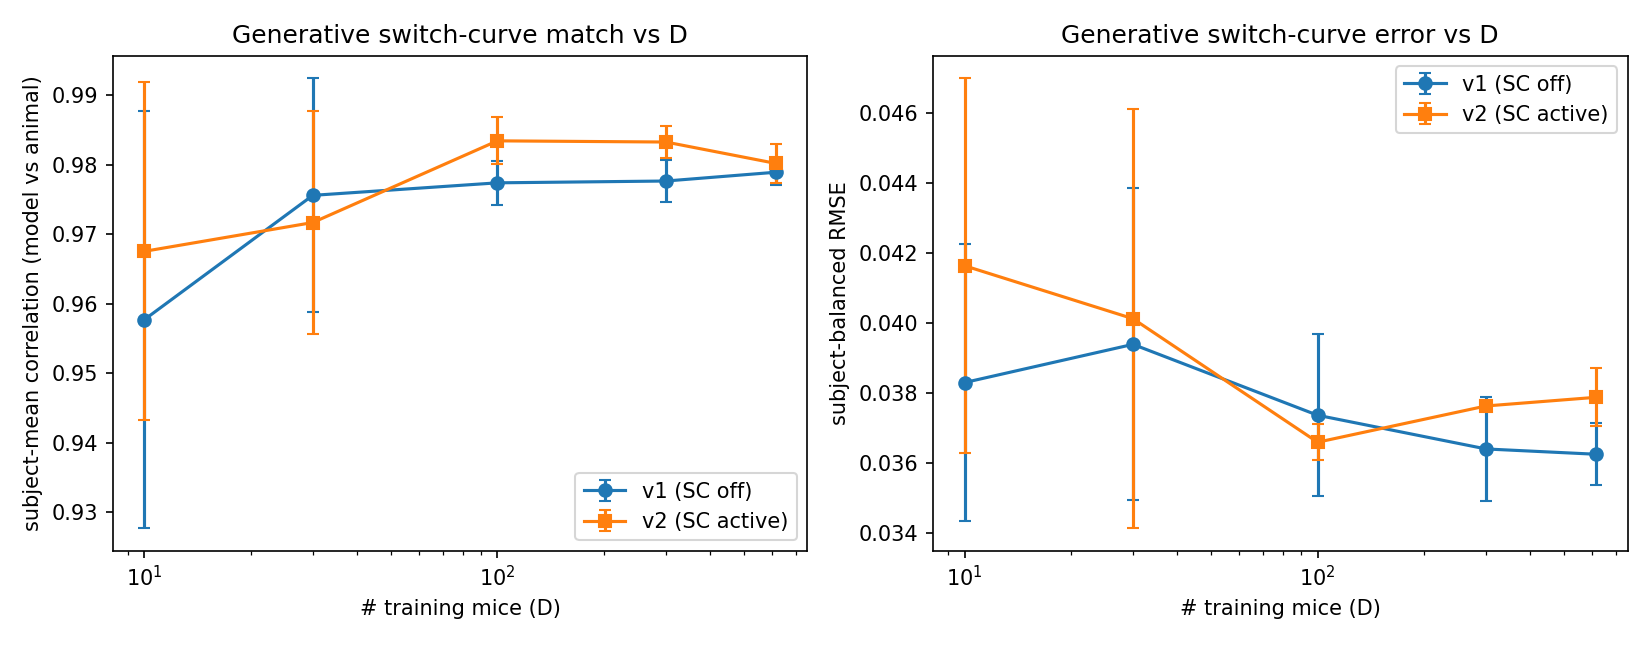
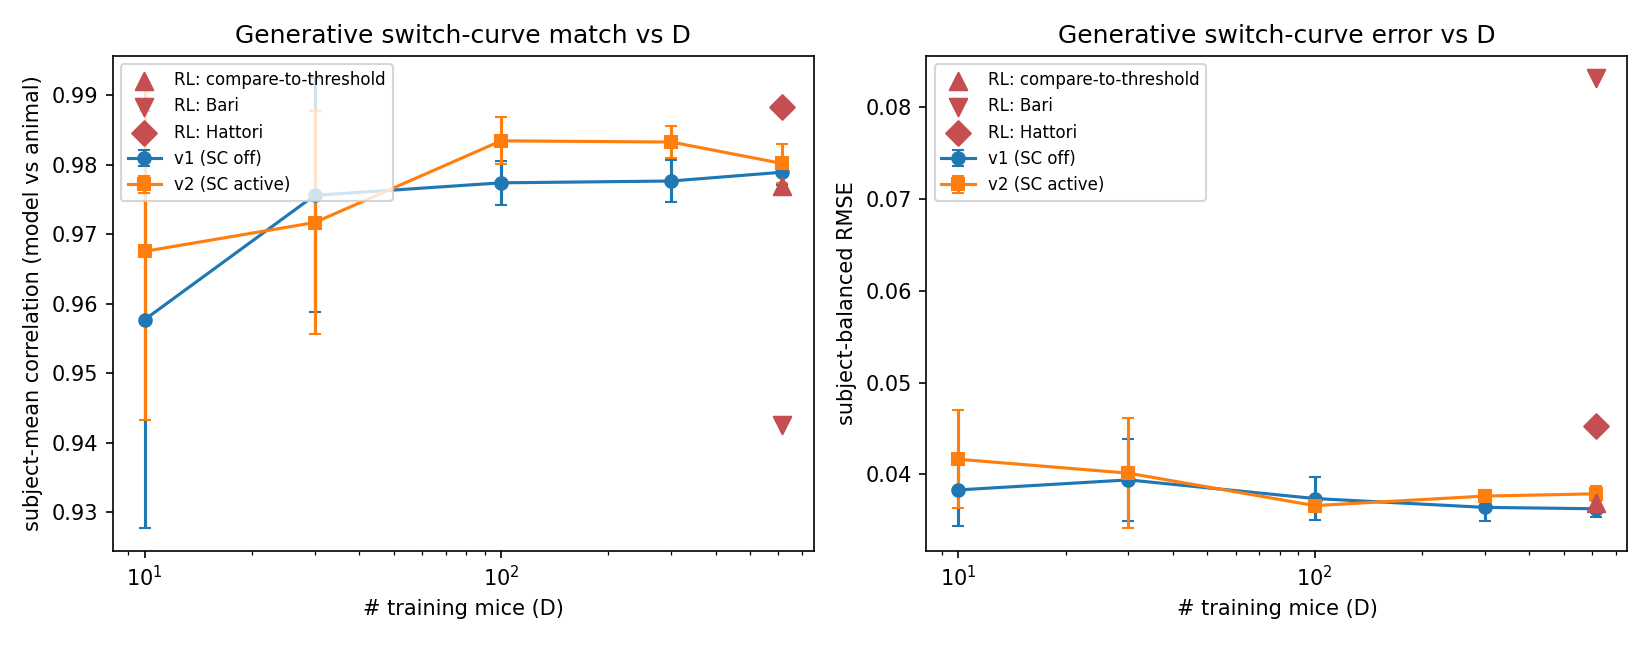
analysis(01): r9 -- add the RL generative baselines from study 05
Study 05's r4 crossed the same three per-mouse RL baselines (compare-to-
threshold, Bari, Hattori -- r1's fits) against the disRNN generatively. r9 is
the natural place for the GRU-vs-RL half of that comparison, since it already
runs the identical task-construction code path -- so add it here too rather
than let the RL rollout only ever be compared against one of the two models.

Reads study 05's committed rl_rollout_summaries/ (cross-study reference, same
direction r1/r4 already read study 01's generative_match.json the other way).
Single reference point per RL model at D=614 (per-subject fit over all 614
mice, not a D-sweep) on both figures, plus three new result tables (d)-(f)
mirroring this report's existing switch/abstract/detailed structure.

Same nuanced finding as r4: no RL model is uniformly more mouse-like than the
GRU, and the internal RL ranking flips across metrics -- Hattori edges out both
GRU variants on the switch curve (0.9884 vs 0.980) but trails on history
(0.965 vs 0.984); compare-to-threshold is competitive on switch (0.977) but is
the WORST model in every table on 3-trial-back history (0.931, both encodings
agree) -- below even the GRU's own D=10 point. Bari trails on every metric and
carries ~2x everyone else's switch RMSE despite mid-table correlation.

Flagged explicitly: this report's OWN GRU rollouts predate wrapper #60 (the
off-curriculum task-family fix), while the RL rollouts run after it -- an
[…]

diff --git a/studies/01-gru-scaling-law/analysis/generative_match.py b/studies/01-gru-scaling-law/analysis/generative_match.py
@@ -36,6 +36,16 @@ PROJECT = "AIND-disRNN/mice_data_scaling"
 PREFIXES = ("generative-v1@", "generative-v2@")
 DLAB = {0.016: 10, 0.049: 30, 0.163: 100, 0.489: 300, 1.0: 614}
 
+# RL baselines: rolled out generatively under study 05 (variants/generative-rl-baseline), same
+# task construction as this study's own GRU rollouts (build_curriculum_matched_task). Read
+# cross-study rather than duplicated -- that variant's notes.md has the full methodology/
+# provenance. Single point each at D=614 (per-subject fits over all 614 mice), NOT a D-sweep.
+RL_JSON_DIR = (
+    HERE.parent.parent / "05-disrnn-scaling-law" / "variants" / "generative-rl-baseline"
+    / "rl_rollout_summaries"
+)
+RL_LABELS = {"ctt": "compare-to-threshold", "bari": "Bari", "hattori": "Hattori"}
+
 # (1) switch-triggered: run-length-resolved switch curve (the corr~0.96 headline).
 STAT = "post_switch_by_reward_and_run_length"
 K_CORR = switch_corr(STAT)
@@ -98,9 +108,43 @@ def collect():
     return rows, groups
 
 
+def rl_reference():
+    """RL baselines' generative match at D=614 (study 05's rollout, same task construction).
+
+    quantitative_summary.json per alias has the SAME nested structure the wrapper logs to W&B
+    (see wandb_keys.py) -- just not flattened into dotted keys, since these standalone rollouts
+    were never logged to a W&B run.
+    """
+    out = {}
+    for alias, label in RL_LABELS.items():
+        path = RL_JSON_DIR / f"{alias}_quantitative_summary.json"
+        if not path.exists():
+            continue
+        d = json.loads(path.read_text())
+        sw = d["switch_triggered"]["quantitative_summary"]["subject_mean"][STAT]
+        sw_mse = d["switch_triggered"]["delta_significance_summary"][STAT][
+            "subject_balanced_error_summary"
+        ]["mean_squared_error"]
+        hp, hn = HIST_HEADLINE
+        hist = d["history_dependent"]["quantitative_summary"]["subject_mean"][hp][str(hn)]
+        hist_mse = d["history_dependent"]["delta_significance_summary"][hp][str(hn)][
+            "subject_balanced_error_summary"
+        ]["mean_squared_error"]
+        out[alias] = dict(
+            label=label,
+            D=614,
+            corr=float(sw["correlation"]),
+            rmse=math.sqrt(float(sw_mse)),
+            hist_corr=float(hist["correlation"]),
+            hist_rmse=math.sqrt(float(hist_mse)),
+        )
+    return out
+
+
 def main():
     rows, groups = collect()
     print(f"collected {len(rows)} generative cells")
+    rl = rl_reference()
     # (1) switch-triggered: aggregate over seeds per (variant, D).
     agg = defaultdict(lambda: defaultdict(list))
     for r in rows:
@@ -131,7 +175,7 @@ def main():
                 )
 
     json.dump({"_meta": build_meta("analysis/generative_match.py", groups),
-               **out, "history_dependent": hist_out},
+               **out, "history_dependent": hist_out, "rl_reference": rl},
               open(HERE / "generative_match.json", "w"), indent=2)
 
     # --- figure 1: switch-triggered match vs D (unchanged) ---------------------
@@ -146,8 +190,15 @@ def main():
         lab = "v1 (SC off)" if var == "v1" else "v2 (SC active)"
         axc.errorbar(xs, cm, yerr=cs, fmt=mk, capsize=3, label=lab)
         axr.errorbar(xs, rm, yerr=rs, fmt=mk, capsize=3, label=lab)
+    rl_markers = {"ctt": "^", "bari": "v", "hattori": "D"}
+    for alias, v in rl.items():
+        axc.scatter([v["D"]], [v["corr"]], marker=rl_markers.get(alias, "x"), s=70,
+                    color="#c44e52", zorder=5, label=f"RL: {v['label']}")
+        axr.scatter([v["D"]], [v["rmse"]], marker=rl_markers.get(alias, "x"), s=70,
+                    color="#c44e52", zorder=5, label=f"RL: {v['label']}")
     for ax in (axc, axr):
-        ax.set_xscale("log"); ax.set_xlabel("# training mice (D)"); ax.legend()
+        # upper-left is the corner every series (GRU v1/v2, RL) leaves clear at every D.
+        ax.set_xscale("log"); ax.set_xlabel("# training mice (D)"); ax.legend(loc="upper left", fontsize=8)
     axc.set_ylabel("subject-mean correlation (model vs animal)")
     axc.set_title("Generative switch-curve match vs D")
     axr.set_ylabel("subject-balanced RMSE")
@@ -168,8 +219,13 @@ def main():
         lab = "v1 (SC off)" if var == "v1" else "v2 (SC active)"
         axc.errorbar(xs, cm, yerr=cs, fmt=mk, capsize=3, label=lab)
         axr.errorbar(xs, rm, yerr=rs, fmt=mk, capsize=3, label=lab)
+    for alias, v in rl.items():
+        axc.scatter([v["D"]], [v["hist_corr"]], marker=rl_markers.get(alias, "x"), s=70,
+                    color="#c44e52", zorder=5, label=f"RL: {v['label']}")
+        axr.scatter([v["D"]], [v["hist_rmse"]], marker=rl_markers.get(alias, "x"), s=70,
+                    color="#c44e52", zorder=5, label=f"RL: {v['label']}")
     for ax in (axc, axr):
-        ax.set_xscale("log"); ax.set_xlabel("# training mice (D)"); ax.legend()
+        ax.set_xscale("log"); ax.set_xlabel("# training mice (D)"); ax.legend(loc="upper left", fontsize=8)
     axc.set_ylabel(f"subject-mean correlation ({hp} n={hn})")
     axc.set_title(f"Generative 3-trial-back history match vs D ({hp})")
     axr.set_ylabel(f"subject-balanced RMSE ({hp} n={hn})")
@@ -192,6 +248,12 @@ def main():
             for cell in sorted(section, key=lambda c: (c[:2], section[c]["D"])):
                 v = section[cell]
                 print(f"{cell:>9} {v['n_seeds']:>2} {v['corr_mean']:>8.4f} {v['rmse_mean']:>8.4f}")
+
+    if rl:
+        print(f"\n=== RL baselines at D=614 (switch corr/rmse, {hp} n={hn} history corr/rmse) ===")
+        for alias, v in rl.items():
+            print(f"{v['label']:>22}  switch {v['corr']:.4f}/{v['rmse']:.4f}   "
+                  f"history {v['hist_corr']:.4f}/{v['hist_rmse']:.4f}")
 
 
 if __name__ == "__main__":

diff --git a/studies/01-gru-scaling-law/analysis/reports/r9-generative-behavioral-match.md b/studies/01-gru-scaling-law/analysis/reports/r9-generative-behavioral-match.md
@@ -13,12 +13,15 @@ inputs:
   related_outputs:
     - analysis/fig_generative_match_history.png
     - analysis/generative_match_verdict.md
-reproduce: python studies/data-scaling-law/analysis/generative_match.py
+  rl_reference: ../05-disrnn-scaling-law/variants/generative-rl-baseline/rl_rollout_summaries/{ctt,bari,hattori}_quantitative_summary.json
+reproduce: python studies/01-gru-scaling-law/analysis/generative_match.py
 ---
 
 # Result 9 — generative model-vs-animal behavioral match vs D (2nd-order validation)
 
 Roll each trained GRU out as a generative agent on the curriculum task and compare two model-vs-animal behavioral curves to the real mouse. Headline = subject-mean Pearson correlation; companion = subject-balanced RMSE (√ of MSE over per-subject mean deltas). Both on the **combined** session partition. 30 runs = 5 D × 3 seeds × {v1 SC off, v2 SC active}. Source W&B groups `generative-v{1,2}@20260623-18074*`. Wrapper 916d3b4.
+
+**Added 2026-07-15:** three per-mouse classical RL baselines (compare-to-threshold, Bari, Hattori — the same fits behind study 05's r1 likelihood numbers), rolled out generatively under study 05's [`generative-rl-baseline`](../../../05-disrnn-scaling-law/variants/generative-rl-baseline/notes.md) variant through the identical task-construction code path, and plotted here as single reference points at D=614 (a per-subject fit over all 614 mice, not a D-sweep). See the ⚠️ caveat below on wrapper-version asymmetry before reading the absolute RL numbers.
 
 ## Figures
 
@@ -41,7 +44,9 @@ For every (variant, D) cell the correlation and RMSE below are means of the 3-se
 ## Results
 
 <!-- BEGIN result-9 -->
-[regenerated by `analysis/generative_match.py` — do not edit by hand]
+[all numbers below are read verbatim off `analysis/generative_match.py`'s console output /
+`generative_match.json` — this script does not write the tables into the report automatically,
+so update them by hand when re-running produces new numbers]
 
 **(a) Switch-triggered curve — `post_switch_by_reward_and_run_length` (4 bins; subject-mean correlation):**
 
@@ -86,6 +91,34 @@ For every (variant, D) cell the correlation and RMSE below are means of the 3-se
 | v2 614 | 0.9990 | 0.9957 | 0.9872 | 0.0210 | 0.0226 | 0.0237 |
 
 **D=10 → D=614 correlation gain (v1, headline metrics):** 4-bin switch curve +0.021; abstract n=3 (32 bins) +0.026; detailed n=1 (4 bins, WSLS-equivalent) +0.042; **detailed n=3 (64 bins) +0.051**. Fine-grained history metrics surface a ~2× larger D-scaling signal than the coarse 4-bin curve, while still saturating by D≈100.
+
+**(d) RL baselines at D=614 — switch-triggered curve** (per-subject fits from study 05's r1, rolled out through the same task construction; not a D-sweep — one row per model, fit on all 614 mice):
+
+| model | switch corr | switch RMSE |
+|---|---|---|
+| GRU v1 (D=614, for reference) | 0.9789 | 0.0362 |
+| GRU v2 (D=614, for reference) | 0.9802 | 0.0379 |
+| Hattori | **0.9884** | 0.0452 |
+| compare-to-threshold | 0.9770 | 0.0369 |
+| Bari | 0.9425 | 0.0831 |
+
+**(e) RL baselines at D=614 — history-pattern curve, abstract encoding:**
+
+| model | n=1 corr | n=2 corr | n=3 corr | n=1 RMSE | n=2 RMSE | n=3 RMSE |
+|---|---|---|---|---|---|---|
+| Hattori | 1.0000ⁿ | 0.9944 | 0.9648 | 0.0153 | 0.0235 | 0.0313 |
+| compare-to-threshold | 1.0000ⁿ | 0.9939 | **0.9313** | 0.0156 | 0.0237 | 0.0216 |
+| Bari | 1.0000ⁿ | 0.9836 | 0.9561 | 0.0201 | 0.0363 | 0.0403 |
+
+**(f) RL baselines at D=614 — history-pattern curve, detailed encoding:**
+
+| model | n=1 corr | n=2 corr | n=3 corr | n=1 RMSE | n=2 RMSE | n=3 RMSE |
+|---|---|---|---|---|---|---|
+| Hattori | 0.9987 | 0.9937 | 0.9656 | 0.0163 | 0.0241 | 0.0301 |
+| compare-to-threshold | 0.9945 | 0.9924 | **0.9321** | 0.0167 | 0.0247 | 0.0207 |
+| Bari | 0.9991 | 0.9855 | 0.9619 | 0.0208 | 0.0359 | 0.0369 |
+
+**No RL model is uniformly more mouse-like than the GRU, and their internal ranking flips across metrics.** Hattori edges out both GRU variants on the switch curve (0.9884 vs 0.980) but trails on history (n=3: 0.965 vs 0.984). compare-to-threshold is competitive with the GRU on switch (0.977) but is the **worst model in every table above** on 3-trial-back history — abstract and detailed agree (0.9313 / 0.9321), both well below even the GRU's D=10 point (0.959–0.962). Bari trails the GRU on every metric and carries ~2× everyone else's RMSE on the switch curve (0.083) despite a mid-table correlation — its curve *shape* tracks the animal, its absolute *level* does not. Full discussion (finding 4): study 05's [r4](../../../05-disrnn-scaling-law/analysis/reports/r4-generative-behavioral-match.md) (same rollouts, disRNN comparison).
 <!-- END result-9 -->
 
 ## Findings
@@ -117,11 +150,23 @@ What does **not** exist anywhere in the wrapper: no win-stay-lose-shift (`wsls`)
 - **"Switch" in `switch_triggered` is a choice flip, not a block reversal.** Block info is stripped from the snapshot before this analysis (`generative_analysis.py:418-426`). Naming follows the wrapper.
 - **abstract n=1 correlation is degenerate** (2 bins → r=±1). Use abstract-n=1 RMSE for D-scaling at that resolution, or use `detailed n=1` (4 bins) for an informative Pearson r.
 - **Subject-mean aggregation discards within-subject variance.** Pooled / session_mean leaves are available in the JSON if a different aggregation is desired.
+- ⚠️ **The RL reference rows (d)-(f) run on a NEWER wrapper than this report's own GRU rollouts.**
+  This report's GRU rollouts predate wrapper
+  [#60](https://github.com/AllenNeuralDynamics/aind-disrnn-wrapper/pull/60): off-curriculum
+  sessions were silently simulated as a default *uncoupled-baiting* task regardless of the family
+  the mouse actually ran (~17% of sessions in the D=10 cohort; the affected fraction at other D is
+  untested here). The RL rollouts added below run **after** #60 and do not carry this bug. That
+  makes the GRU-vs-RL comparison in (d)-(f) asymmetric — an unknown amount of the GRU's numbers
+  reflect wrong-task rollouts that the RL numbers don't. It does **not** affect the RL-vs-disRNN
+  comparison in study 05's r4, which runs both models on the same post-#60 code. Re-running this
+  report's own GRU rollouts on the fixed wrapper is tracked (see r4) but not yet done.
 
 ## Related
 
 - [[r1-heldout-scaling-curve]] — 1st-order (next-trial LL) D-scaling that this 2nd-order check corroborates.
 - [[r7-nxd-joint-scaling-grid]] — `nxd_scaling_verdict.md:53` and `nxd_scaling.py:406` already cite "generative behavioral-match (corr~0.96+) corroborates the near-ceiling claim from a 2nd metric".
 - `generative_match_verdict.md` — pre-promotion verdict notes (switch-triggered only).
-- `studies/data-scaling-law/FUTURE_DIRECTIONS.md` §5 — original motivation for this 2nd-order check, and the stage-matching caveat above.
-- `studies/data-scaling-law/launch_generative.py` — launcher that produced the `generative-v{1,2}@*` W&B groups.
+- `studies/01-gru-scaling-law/FUTURE_DIRECTIONS.md` §5 — original motivation for this 2nd-order check, and the stage-matching caveat above.
+- `studies/01-gru-scaling-law/launch_generative.py` — launcher that produced the `generative-v{1,2}@*` W&B groups.
+- [study 05 r4](../../../05-disrnn-scaling-law/analysis/reports/r4-generative-behavioral-match.md) — the disRNN counterpart of this report; same RL baselines, same rollout code path, disRNN-vs-GRU-vs-RL comparison at D=614.
+- [`05-disrnn-scaling-law/variants/generative-rl-baseline`](../../../05-disrnn-scaling-law/variants/generative-rl-baseline/notes.md) — methodology and provenance for the RL rollouts added in (d)-(f) above.